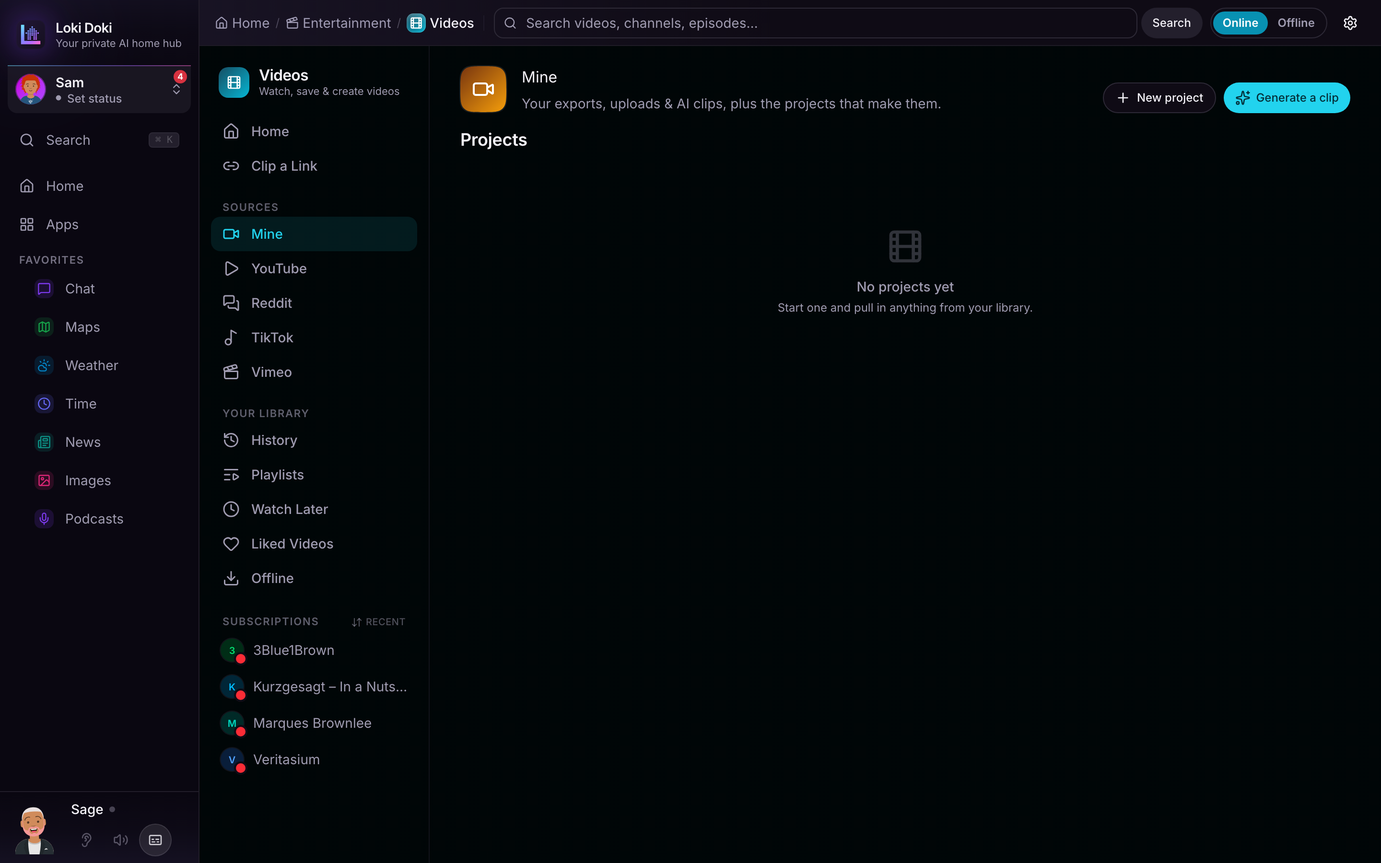
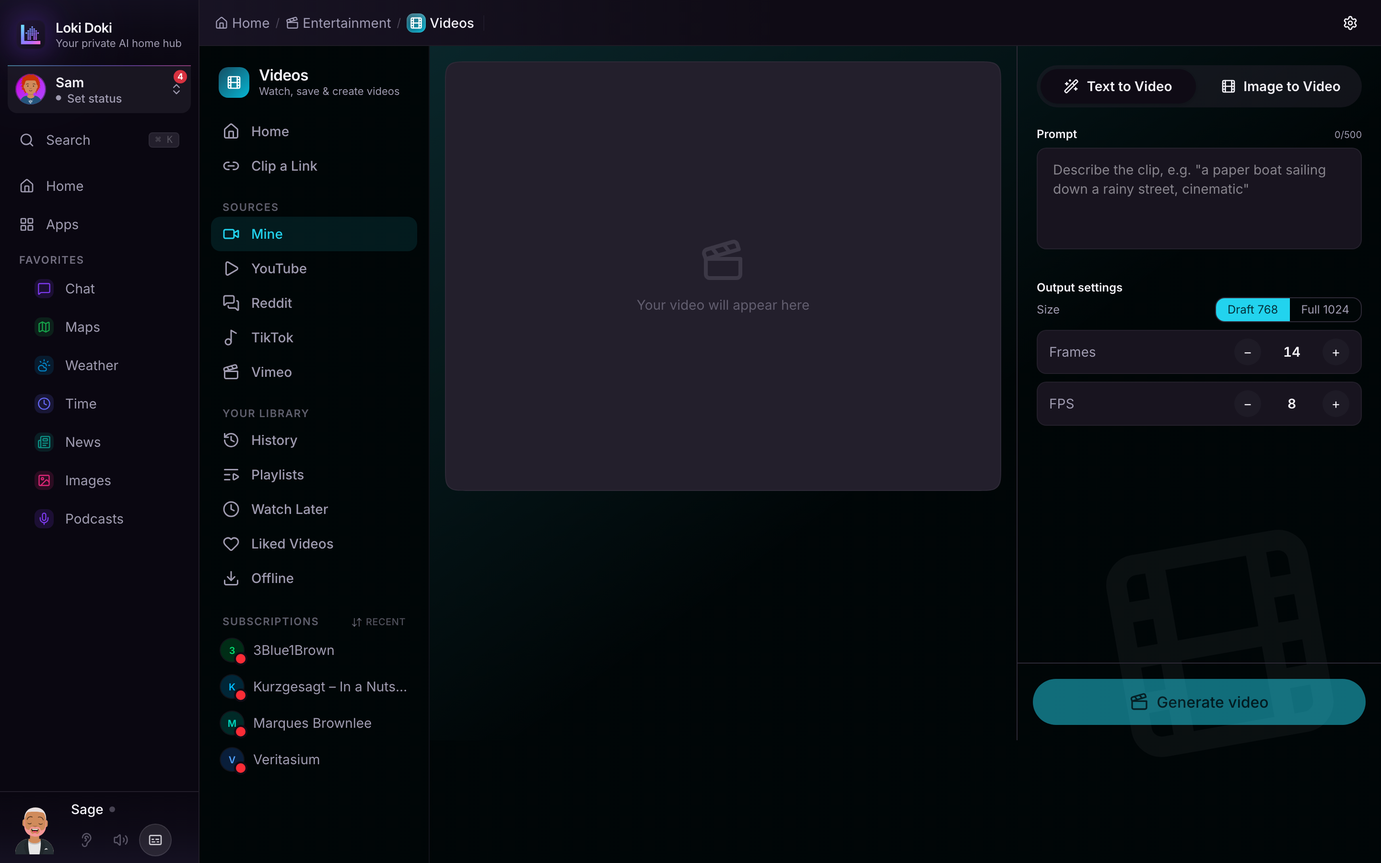
videos: watch page theater stage
The player leaves the YouTube two-column skeleton and becomes the page hero: a
full-width band, centered and height-capped like a cinema screen, floating on a glow in
the video's own extracted accent. Info moves below it - overline views/age eyebrow, big
extrabold title, creator identity chip (glass pill with avatar + subs), labeled accent
Subscribe pill, and the player-option + action clusters consolidated on one row. Both
watch branches; vertical TikTok/Reels keep their height cap. Baseline shrunk by 1.

diff --git a/frontend/src/pages/videos/WatchPage.tsx b/frontend/src/pages/videos/WatchPage.tsx
@@ -396,13 +396,17 @@ function YoutubeWatch({ videoId }: { videoId: string }) {
 
   return (
    <WatchCinema art={ytImageProxy(thumbUrl(videoId, 'hq'))}>
-    <PageContainer width="wide" className="grid grid-cols-1 gap-6 py-6 xl:grid-cols-[1fr_400px]">
-      {/* Main column */}
-      <div className="min-w-0 space-y-5">
-        {isPending ? (
-          <Skeleton className="aspect-video w-full rounded-card" />
-        ) : (
-          <div className="relative rounded-card shadow-2xl ring-1 ring-white/10">
+    <PageContainer width="wide" className="space-y-6 py-6">
+      {/* Theater stage: the player is the page's hero - full-width band, centered and
+          height-capped like a cinema screen, floating on a glow in the video's own accent
+          instead of sitting boxed inside a column (the YouTube skeleton). */}
+      {isPending ? (
+        // design-ok(adhoc-container): theater-stage width cap (viewport-height-derived), not a page container
+        <Skeleton className="mx-auto aspect-video w-full max-w-[calc(72vh*(16/9))] rounded-card" />
+      ) : (
+        // design-ok(adhoc-container): theater-stage width cap (viewport-height-derived), not a page container
+        <div className="relative mx-auto w-full max-w-[calc(72vh*(16/9))] rounded-card bg-black ring-1 ring-white/10"
+          style={{ boxShadow: '0 50px 160px -50px var(--yt-accent)' }}>
             <VideoPlayer
               ref={playerRef} key={`${videoId}:${privacy}:${audioOnly}`} videoId={videoId} localKind={localKind}
               resumeSec={resumeSec} onEnded={onEnded}
@@ -433,6 +437,9 @@ function YoutubeWatch({ videoId }: { videoId: string }) {
           </div>
         )}
 
+      <div className="grid grid-cols-1 gap-6 xl:grid-cols-[1fr_400px]">
+      {/* Main column */}
+      <div className="min-w-0 space-y-5">
         <YoutubeInfoPanel videoId={videoId} title={title} author={author} channelThumb={channelThumb} meta={meta}
           votes={votes ?? null} localKind={localKind}
           privacy={privacy} onTogglePrivacy={togglePrivacy}
@@ -476,6 +483,7 @@ function YoutubeWatch({ videoId }: { videoId: string }) {
           </div>
         )}
       </aside>
+      </div>
     </PageContainer>
    </WatchCinema>
   )
@@ -595,61 +603,67 @@ function YoutubeInfoPanel({ videoId, title, author, channelThumb, meta, votes, l
   return (
     <div className="space-y-4">
       {unsubDialog}
-      <div className="flex items-start justify-between gap-3">
+      {/* Eyebrow + big editorial title (the music player's hierarchy: quiet overline meta,
+          loud name) - no control cluster competing with the title line. */}
+      <div className="space-y-1.5">
+        {views && <p className="text-overline text-white/50">{views}</p>}
         {/* design-ok(raw-h1-in-pages): video title is content on a full-bleed watch surface, not page chrome */}
-        <h1 className="text-xl font-extrabold leading-tight tracking-tight sm:text-2xl">{title}</h1>
-        {/* Player options live on the title line — display/viewing prefs, not social actions,
-         *  so they don't compete with the creator row for width and force it to wrap. */}
-        {/* design-ok(glass-on-plain-bg): floating pill group over the UltraBlur cinema backdrop */}
-        <div className="flex shrink-0 items-center gap-0.5 rounded-full bg-white/10 p-1">
-          <SegBtn icon={SquareArrowOutDownLeft} label="Minimize to mini-player" onClick={onMinimize}
-            title="Minimize: keep playing in the mini-player while you browse. Note: the mini-player streams directly from YouTube (not the private proxy)." />
-          {online && (
-            <SegBtn icon={ShieldCheck} label="Private stream" active={privacy} tone="success" iconFill={privacy} onClick={onTogglePrivacy}
-              title="Private stream: route through this server so Google never sees you. Slower to start and caps at 720p." />
-          )}
-          {online && (
-            <SegBtn icon={Headphones} label="Audio only" active={audioOnly} tone="info" onClick={onToggleAudioOnly}
-              title="Audio only: play just the audio to save bandwidth." />
-          )}
-          {isShortVid && (
-            <SegBtn icon={Smartphone} label="Shorts view" to={`/videos/youtube/shorts/${videoId}`} title="Open in Shorts view" />
-          )}
-        </div>
+        <h1 className="text-2xl font-extrabold leading-tight tracking-tight sm:text-3xl">{title}</h1>
       </div>
 
-      <div className="flex flex-wrap items-center gap-3">
+      <div className="flex flex-wrap items-center gap-2.5">
+        {/* Creator identity chip: avatar + name + subs in one glass pill, like a music artist chip. */}
+        {/* design-ok(glass-on-plain-bg): identity chip over the UltraBlur cinema backdrop */}
         {author && (channelId ? (
           <Link to={`/videos/youtube/channel/${encodeURIComponent(channelId)}`} state={{ title: author, thumbnailUrl: channelThumb }}
-            className="group flex items-center gap-2.5">
-            <CreatorAvatar title={author} src={channelThumb} className="size-10 text-sm ring-1 ring-border/40 transition group-hover:ring-2 group-hover:ring-[var(--yt-accent)]" />
+            className="group flex items-center gap-2.5 rounded-full bg-white/10 py-1 pl-1 pr-4 transition-colors hover:bg-white/15">
+            <CreatorAvatar title={author} src={channelThumb} className="size-9 text-sm ring-1 ring-white/15 transition group-hover:ring-2 group-hover:ring-[var(--yt-accent)]" />
             <div>
               <p className="text-sm font-semibold leading-tight transition-colors group-hover:text-[var(--yt-accent-fg)]">{author}</p>
-              {subscribers && <p className="text-xs text-muted-foreground">{subscribers}</p>}
+              {subscribers && <p className="text-xs leading-tight text-muted-foreground">{subscribers}</p>}
             </div>
           </Link>
         ) : (
-          <div className="flex items-center gap-2.5">
-            <CreatorAvatar title={author} src={channelThumb} className="size-10 text-sm ring-1 ring-border/40" />
+          // design-ok(glass-on-plain-bg): identity chip over the UltraBlur cinema backdrop
+          <div className="flex items-center gap-2.5 rounded-full bg-white/10 py-1 pl-1 pr-4">
+            <CreatorAvatar title={author} src={channelThumb} className="size-9 text-sm ring-1 ring-white/15" />
             <div>
               <p className="text-sm font-semibold leading-tight">{author}</p>
-              {subscribers && <p className="text-xs text-muted-foreground">{subscribers}</p>}
+              {subscribers && <p className="text-xs leading-tight text-muted-foreground">{subscribers}</p>}
             </div>
           </div>
         ))}
         {channelId && (subbed ? (
-          <Button variant="secondary" size="icon" onClick={toggleSub} disabled={subBusy} title="Subscribed. Click to unsubscribe" aria-label="Subscribed"
-            className="bg-muted text-muted-foreground hover:bg-destructive/10 hover:text-destructive disabled:opacity-60">
-            {subBusy ? <Spinner /> : <Check className="size-4" />}
+          // design-ok(glass-on-plain-bg): glass pill over the UltraBlur cinema backdrop
+          <Button onClick={toggleSub} disabled={subBusy} title="Subscribed. Click to unsubscribe" aria-label="Subscribed"
+            className="rounded-full bg-white/10 px-4 text-foreground/80 hover:bg-destructive/20 hover:text-destructive disabled:opacity-60">
+            {subBusy ? <Spinner /> : <><Check className="size-4" /> Subscribed</>}
           </Button>
         ) : (
-          <Button size="icon" onClick={toggleSub} disabled={subBusy} title="Subscribe" aria-label="Subscribe"
-            className="bg-[var(--yt-accent)] text-[var(--yt-accent-contrast,white)] hover:bg-[var(--yt-accent-hover)] disabled:opacity-60">
-            {subBusy ? <Spinner className="text-white" /> : <Plus className="size-4" />}
+          <Button onClick={toggleSub} disabled={subBusy} title="Subscribe" aria-label="Subscribe"
+            className="rounded-full bg-[var(--yt-accent)] px-4 text-[var(--yt-accent-contrast,white)] hover:bg-[var(--yt-accent-hover)] disabled:opacity-60">
+            {subBusy ? <Spinner className="text-current" /> : <><Plus className="size-4" /> Subscribe</>}
           </Button>
         ))}
         {votes && <VotesBar votes={votes} />}
         <div className="ml-auto flex flex-wrap items-center justify-end gap-2">
+          {/* Player options: display/viewing prefs, kept apart from the social actions. */}
+          {/* design-ok(glass-on-plain-bg): floating pill group over the UltraBlur cinema backdrop */}
+          <div className="flex items-center gap-0.5 rounded-full bg-white/10 p-1">
+            <SegBtn icon={SquareArrowOutDownLeft} label="Minimize to mini-player" onClick={onMinimize}
+              title="Minimize: keep playing in the mini-player while you browse. Note: the mini-player streams directly from YouTube (not the private proxy)." />
+            {online && (
+              <SegBtn icon={ShieldCheck} label="Private stream" active={privacy} tone="success" iconFill={privacy} onClick={onTogglePrivacy}
+                title="Private stream: route through this server so Google never sees you. Slower to start and caps at 720p." />
+            )}
+            {online && (
+              <SegBtn icon={Headphones} label="Audio only" active={audioOnly} tone="info" onClick={onToggleAudioOnly}
+                title="Audio only: play just the audio to save bandwidth." />
+            )}
+            {isShortVid && (
+              <SegBtn icon={Smartphone} label="Shorts view" to={`/videos/youtube/shorts/${videoId}`} title="Open in Shorts view" />
+            )}
+          </div>
           {/* Actions — primary ones inline, the rest folded into a ⋯ menu */}
           {/* design-ok(glass-on-plain-bg): floating pill group over the UltraBlur cinema backdrop */}
           <div className="flex items-center gap-0.5 rounded-full bg-white/10 p-1">
@@ -694,7 +708,7 @@ function YoutubeInfoPanel({ videoId, title, author, channelThumb, meta, votes, l
         </div>
       </div>
 
-      <DescriptionCard views={views}
+      <DescriptionCard views={null}
         description={description ? (hasOriginalDescription ? description : description) : null} />
       {hasOriginalDescription && description && (
         <button onClick={() => setShowOriginalDescription(v => !v)} className="-mt-3 text-xs font-semibold text-muted-foreground hover:text-foreground">
@@ -1134,13 +1148,13 @@ function GenericWatch({ source, videoId: id }: { source: VideoSource; videoId: s
 
   return (
    <WatchCinema art={item.thumbnailUrl ? proxyImg(item.thumbnailUrl) : null}>
-    <PageContainer width="wide" className="grid grid-cols-1 gap-6 py-6 xl:grid-cols-[1fr_400px]">
-      {/* Main column */}
-      <div className="min-w-0 space-y-5">
-        {/* Vertical (TikTok/Reels) videos are capped by HEIGHT so the title + action row stay
-            visible beneath the player instead of a full 9:16 tower pushing them off-screen. */}
-        <div className={item.vertical ? 'flex justify-center' : ''}>
-          <div className="relative rounded-card shadow-2xl ring-1 ring-white/10">
+    <PageContainer width="wide" className="space-y-6 py-6">
+        {/* Theater stage: player as the page hero, centered and height-capped, floating on
+            an accent glow. Vertical (TikTok/Reels) videos are capped by HEIGHT so the info
+            below stays visible instead of a full 9:16 tower pushing it off-screen. */}
+        <div className="flex justify-center">
+          <div className={cn('relative rounded-card bg-black ring-1 ring-white/10', !item.vertical && 'w-full max-w-[calc(72vh*(16/9))]')}
+            style={{ boxShadow: '0 50px 160px -50px var(--yt-accent)' }}>
             {showEmbed ? (
               source === 'vimeo' ? (
                 <VimeoWatchPlayer embedUrl={embedUrl!} title={item.title} vertical={!!item.vertical} />
@@ -1193,45 +1207,56 @@ function GenericWatch({ source, videoId: id }: { source: VideoSource; videoId: s
           </div>
         </div>
 
+      <div className="grid grid-cols-1 gap-6 xl:grid-cols-[1fr_400px]">
+      {/* Main column */}
+      <div className="min-w-0 space-y-5">
         <div className="space-y-4">
-          <div className="flex items-start justify-between gap-3">
+          {/* Eyebrow + big editorial title (the music player's hierarchy). */}
+          <div className="space-y-1.5">
+            {(item.viewsText || item.likesText || item.publishedText || item.publishedAt) && (
+              <p className="text-overline text-white/50">
+                {[item.viewsText, item.likesText, item.publishedText ?? fmtAge(item.publishedAt)].filter(Boolean).join(' · ')}
+              </p>
+            )}
             {/* design-ok(raw-h1-in-pages): video title is content on a full-bleed watch surface, not page chrome */}
-            <h1 className="text-xl font-extrabold leading-tight tracking-tight sm:text-2xl">{item.title}</h1>
-            {/* Player options live on the title line — display/viewing prefs, not social
-             *  actions, so they don't compete with the creator row for width and force it to wrap. */}
-            {/* design-ok(glass-on-plain-bg): floating pill group over the UltraBlur cinema backdrop */}
-            <div className="flex shrink-0 items-center gap-0.5 rounded-full bg-white/10 p-1">
-              <SegBtn icon={SquareArrowOutDownLeft} label="Minimize to mini-player" onClick={minimize}
-                title="Minimize: keep playing in the mini-player while you browse. For TikTok/Vimeo this streams a direct copy (a few seconds to start)." />
-              {pipSupported && (
-                <SegBtn icon={PictureInPicture2} label="Picture-in-picture" onClick={togglePip}
-                  title="Picture-in-picture: pop the video into a floating window while you keep browsing. For TikTok/Vimeo this streams a direct copy (a few seconds to start)." />
-              )}
-            </div>
+            <h1 className="text-2xl font-extrabold leading-tight tracking-tight sm:text-3xl">{item.title}</h1>
           </div>
 
-          <div className="flex flex-wrap items-center gap-3">
+          <div className="flex flex-wrap items-center gap-2.5">
+            {/* Creator identity chip: avatar + name in one glass pill, like a music artist chip. */}
+            {/* design-ok(glass-on-plain-bg): identity chip over the UltraBlur cinema backdrop */}
             {item.creator && creatorPath && (
-              <Link to={creatorPath} className="group flex items-center gap-2.5">
+              <Link to={creatorPath} className="group flex items-center gap-2.5 rounded-full bg-white/10 py-1 pl-1 pr-4 transition-colors hover:bg-white/15">
                 <CreatorAvatar title={item.creator.name} src={item.creator.avatarUrl}
-                  className="size-10 text-sm ring-1 ring-border/40 transition group-hover:ring-2 group-hover:ring-[var(--yt-accent)]" />
+                  className="size-9 text-sm ring-1 ring-white/15 transition group-hover:ring-2 group-hover:ring-[var(--yt-accent)]" />
                 <p className="text-sm font-semibold transition-colors group-hover:text-[var(--yt-accent-fg)]">{item.creator.name}</p>
               </Link>
             )}
             {item.creator && (follow ? (
-              <Button variant="secondary" size="icon" onClick={() => followMutation.mutate()} disabled={followMutation.isPending}
+              // design-ok(glass-on-plain-bg): glass pill over the UltraBlur cinema backdrop
+              <Button onClick={() => followMutation.mutate()} disabled={followMutation.isPending}
                 title="Subscribed. Click to unsubscribe" aria-label="Subscribed"
-                className="bg-muted text-muted-foreground hover:bg-destructive/10 hover:text-destructive disabled:opacity-60">
-                {followMutation.isPending ? <Spinner /> : <Check className="size-4" />}
+                className="rounded-full bg-white/10 px-4 text-foreground/80 hover:bg-destructive/20 hover:text-destructive disabled:opacity-60">
+                {followMutation.isPending ? <Spinner /> : <><Check className="size-4" /> Subscribed</>}
               </Button>
             ) : (
-              <Button size="icon" onClick={() => followMutation.mutate()} disabled={followMutation.isPending} title="Subscribe" aria-label="Subscribe"
-                className="bg-[var(--yt-accent)] text-[var(--yt-accent-contrast,white)] hover:bg-[var(--yt-accent-hover)] disabled:opacity-60">
-                {followMutation.isPending ? <Spinner className="text-white" /> : <Plus className="size-4" />}
+              <Button onClick={() => followMutation.mutate()} disabled={followMutation.isPending} title="Subscribe" aria-label="Subscribe"
+                className="rounded-full bg-[var(--yt-accent)] px-4 text-[var(--yt-accent-contrast,white)] hover:bg-[var(--yt-accent-hover)] disabled:opacity-60">
+                {followMutation.isPending ? <Spinner className="text-current" /> : <><Plus className="size-4" /> Subscribe</>}
               </Button>
             ))}
 
             <div className="ml-auto flex flex-wrap items-center justify-end gap-2">
+              {/* Player options: display/viewing prefs, kept apart from the social actions. */}
+              {/* design-ok(glass-on-plain-bg): floating pill group over the UltraBlur cinema backdrop */}
+              <div className="flex items-center gap-0.5 rounded-full bg-white/10 p-1">
+                <SegBtn icon={SquareArrowOutDownLeft} label="Minimize to mini-player" onClick={minimize}
+                  title="Minimize: keep playing in the mini-player while you browse. For TikTok/Vimeo this streams a direct copy (a few seconds to start)." />
+                {pipSupported && (
+                  <SegBtn icon={PictureInPicture2} label="Picture-in-picture" onClick={togglePip}
+                    title="Picture-in-picture: pop the video into a floating window while you keep browsing. For TikTok/Vimeo this streams a direct copy (a few seconds to start)." />
+                )}
+              </div>
               {/* Actions — primary ones inline, the rest folded into a ⋯ menu */}
               {/* design-ok(glass-on-plain-bg): floating pill group over the UltraBlur cinema backdrop */}
               <div className="flex items-center gap-0.5 rounded-full bg-white/10 p-1">
@@ -1275,7 +1300,7 @@ function GenericWatch({ source, videoId: id }: { source: VideoSource; videoId: s
             </div>
           </div>
 
-          <DescriptionCard views={[item.viewsText, item.likesText, item.publishedText ?? fmtAge(item.publishedAt)].filter(Boolean).join(' · ') || null} description={item.description ?? null} />
+          <DescriptionCard views={null} description={item.description ?? null} />
         </div>
 
         <CreatePodcastDialog open={podcastOpen} onClose={() => setPodcastOpen(false)}
@@ -1308,6 +1333,7 @@ function GenericWatch({ source, videoId: id }: { source: VideoSource; videoId: s
         {capabilities?.related && <RelatedVideosCard source={source} excludeId={id} />}
         {item.creator && <MoreFromCreatorCard source={source} creatorId={item.creator.id} excludeId={id} />}
       </aside>
+      </div>
     </PageContainer>
    </WatchCinema>
   )

diff --git a/README.md b/README.md
@@ -1,8 +1,4 @@
-<picture>
-  <source media="(prefers-color-scheme: dark)"  srcset="assets/hero.svg">
-  <source media="(prefers-color-scheme: light)" srcset="assets/hero.svg">
-  <img src="assets/hero.svg" width="100%" alt="Loki Doki: A full AI stack that runs in your home and stays there" />
-</picture>
+<img src="docs/src/assets/screenshots/hero.png" width="100%" alt="Loki Doki — a private AI home hub: the family dashboard on desktop and a child's own view on their phone, all served from your hardware" />
 
 <p align="center">
   <img src="https://readme-typing-svg.demolab.com?font=Inter&weight=600&size=20&duration=3000&pause=800&color=8B5CF6&center=true&vCenter=true&width=700&height=56&lines=Your+family.+Your+data.+Your+rules.;Private+AI+that+never+leaves+home.;Works+offline.+Zero+subscriptions.;Uncensored+for+adults.+Safe+for+kids." alt="Typing SVG" />
@@ -38,11 +34,52 @@ One server. The whole family. Zero subscriptions. No corporation reads your chat
 
 <br/>
 
-<p align="center">
-  <img src="docs/src/assets/screenshots/home-desktop.png" width="880" alt="The Loki Doki home dashboard — personal greeting, live weather, news, and a floating companion, all served from your own hardware" />
-</p>
+---
 
-<br/>
+## ✨ See It in Action
+
+<table width="100%">
+<tr>
+<td width="50%" valign="top">
+  <a href="https://jessewebdotcom.github.io/loki-doki/user/features/chat/"><img src="docs/src/assets/screenshots/chat-desktop.png" width="100%" alt="Private AI chat with your companion" /></a>
+  <p><b>💬 Chat</b> — talk to your own AI about anything. It remembers your family, plans your weekend, and never phones home.</p>
+</td>
+<td width="50%" valign="top">
+  <a href="https://jessewebdotcom.github.io/loki-doki/user/features/image-generation/"><img src="docs/src/assets/screenshots/image-gen-desktop.png" width="100%" alt="Local AI image generation" /></a>
+  <p><b>🎨 Image Generation</b> — create art, photos, and logos from a prompt, on your own GPU. Nothing is uploaded, nothing is filtered for adults.</p>
+</td>
+</tr>
+<tr>
+<td width="50%" valign="top">
+  <a href="https://jessewebdotcom.github.io/loki-doki/user/features/videos/"><img src="docs/src/assets/screenshots/video-gen-desktop.png" width="100%" alt="Local text-to-video generation" /></a>
+  <p><b>🎬 Video Creation</b> — turn a text prompt or an image into a video clip, generated entirely at home.</p>
+</td>
+<td width="50%" valign="top">
+  <a href="https://jessewebdotcom.github.io/loki-doki/user/features/music/"><img src="docs/src/assets/screenshots/music-desktop.png" width="100%" alt="Private streaming music with AI radio stations" /></a>
+  <p><b>🎵 Music</b> — your own streaming service: AI radio stations with a live DJ, playlists, synced lyrics, karaoke, and offline saves.</p>
+</td>
+</tr>
+<tr>
+<td width="50%" valign="top">
+  <a href="https://jessewebdotcom.github.io/loki-doki/user/features/videos/"><img src="docs/src/assets/screenshots/videos-desktop.png" width="100%" alt="One private video app for every source" /></a>
+  <p><b>📺 Videos</b> — YouTube, TikTok, Vimeo, Reddit, and your own clips in one calm app. No ads, no tracking, no algorithm aimed at your kids.</p>
+</td>
+<td width="50%" valign="top">
+  <a href="https://jessewebdotcom.github.io/loki-doki/user/features/podcasts/"><img src="docs/src/assets/screenshots/podcasts-desktop.png" width="100%" alt="AI-produced podcasts from anything you watch" /></a>
+  <p><b>🎙 Podcasts</b> — your companion writes, narrates, and produces full podcast episodes about any show, movie, or channel — entirely offline.</p>
+</td>
+</tr>
+<tr>
+<td width="50%" valign="top">
+  <a href="https://jessewebdotcom.github.io/loki-doki/user/features/books/"><img src="docs/src/assets/screenshots/books-kid-desktop.png" width="100%" alt="A private family library of ebooks and audiobooks" /></a>
+  <p><b>📚 Books</b> — ebooks, audiobooks, comics, and magazines with a private library per family member — including the kids.</p>
+</td>
+<td width="50%" valign="top">
+  <a href="https://jessewebdotcom.github.io/loki-doki/user/features/reference/"><img src="docs/src/assets/screenshots/reference-desktop.png" width="100%" alt="Offline reference: dictionary, medical, Wikipedia" /></a>
+  <p><b>🩺 Offline Knowledge</b> — dictionary, medical lookups, all of Wikipedia, and TED talks stored at home. Health questions stay in the house, and answers work with the internet down.</p>
+</td>
+</tr>
+</table>
 
 ---
 

diff --git a/.claude/skills/update-docs/SKILL.md b/.claude/skills/update-docs/SKILL.md
@@ -74,6 +74,8 @@ cd backend && bun run seed:demo
   full admin pages show the real household's global state.
 - Run `cd frontend && bun run shots:docs` (pass name filters to re-shoot a subset).
 - On a non-zero exit, report the DENYLIST HIT / failed-action lines verbatim and STOP.
+- If the home shots were re-taken, also run `bun run shots:hero` — it composites
+  `hero.png` (the README masthead) from `home-desktop.png` + `home-kid-mobile.png`.
 
 ### 6. Embed
 
@@ -86,6 +88,7 @@ Screenshots land in `docs/src/assets/screenshots/<name>-<variant>.png`.
   GitHub via the repo-relative path).
 - Orphan check both directions: every referenced screenshot exists on disk, and every
   PNG in the screenshots dir is referenced somewhere (README or docs). Report strays.
+  (`home-desktop.png` is legitimately unreferenced — it's the input to `hero.png`.)
 
 ### 7. Verify
 

diff --git a/docs/src/content/docs/user/features/image-generation.md b/docs/src/content/docs/user/features/image-generation.md
@@ -7,6 +7,8 @@ sidebar:
 
 Describe anything in plain words and the Imaging page creates it for you: a photo, a painting, a cartoon, a logo, a short video. Everything runs on your own server, so nothing you create ever leaves your home network. For adult accounts there are no refusals or restrictions; accounts with content filtering enabled stay family-friendly automatically.
 
+![The Generate page: describe what you want, pick a ratio and output format, and create images on your own hardware](../../../../assets/screenshots/image-gen-desktop.png)
+
 The Imaging page has four areas along the side: **Generate**, **Edit**, **Recognize**, and **Logo**.
 
 ## Generate

diff --git a/docs/src/content/docs/user/features/podcasts.md b/docs/src/content/docs/user/features/podcasts.md
@@ -7,6 +7,8 @@ sidebar:
 
 Loki Doki can turn the things you care about into a podcast, hosted by your own AI companions, in their own voices. It is like having a little radio station for your household that only covers what your family follows.
 
+![The Podcasts app: AI narration, original stingers, chapter markers, and offline listening — produced entirely on your hardware](../../../../assets/screenshots/podcasts-desktop.png)
+
 ## What a Show Is
 
 A **show** is an ongoing series, like a real podcast. It has a name, a cover, one or more host companions, and a set of sources it draws from. Each time you generate, the show gets a new **episode**.

diff --git a/docs/src/content/docs/user/features/reference.md b/docs/src/content/docs/user/features/reference.md
@@ -7,6 +7,8 @@ sidebar:
 
 Full reference libraries that live on your own server and work with no internet at all. Nobody logs what you read or look up.
 
+![The Reference hub: Dictionary and Medical lookups plus offline Wikipedia and TED talk archives](../../../../assets/screenshots/reference-desktop.png)
+
 ## Overview
 
 Reference gives you whole offline archives, including Wikipedia, Wiktionary, medical references, and more, served straight from your home server. It also holds the Dictionary and Medical lookup tools. There is no internet connection required and no account anywhere tracking your reading.

diff --git a/docs/src/content/docs/user/features/chat.md b/docs/src/content/docs/user/features/chat.md
@@ -7,6 +7,8 @@ sidebar:
 
 Your chats run on a model on your own hardware. No corporation is reading them, no third-party server keeps your history, and nothing you say is harvested or sold. The AI just remembers _you_.
 
+![A chat conversation with a companion: planning a family hike, setting a reminder, and adding to the shopping list](../../../../assets/screenshots/chat-desktop.png)
+
 ## Starting a Conversation
 
 Open the Chat page and type your message, or say your wakeword to start hands-free.
